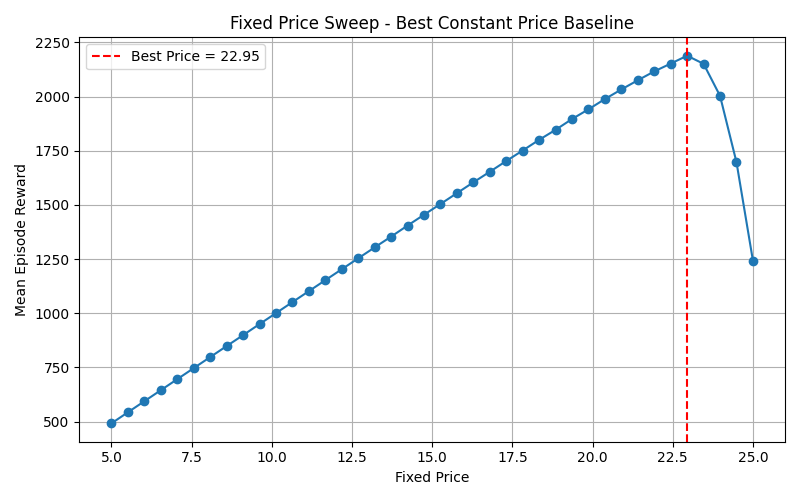
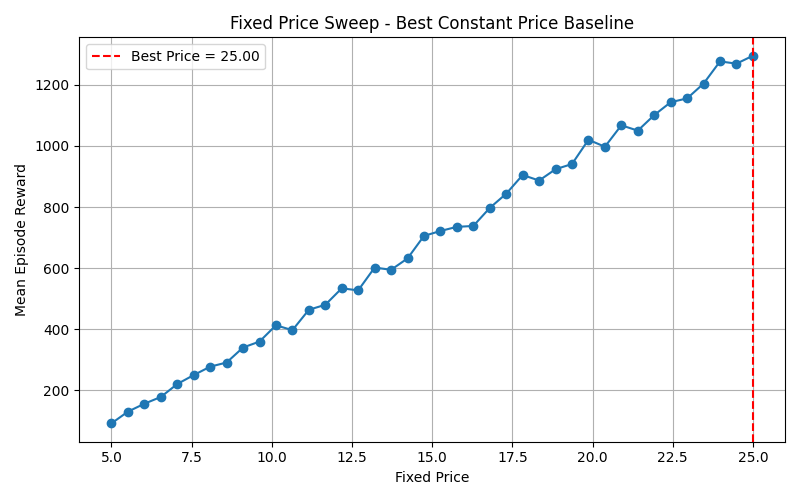
Updated environment, SARSA, Q-learning, baseline sweep, and new analysis plots

diff --git a/envs/pricing_env.py b/envs/pricing_env.py
@@ -83,15 +83,19 @@ class DynamicPricingEnv(gym.Env):
         self.last_realized_demand = 0.0
 
     def _sample_demand(self, price: float) -> float:
-        """
-        Linear demand with Gaussian noise:
-        demand = base_demand - price_sensitivity * price + Normal(0, demand_noise_std)
-        Clipped to [0, demand_cap].
-        """
+        """Nonlinear And seasonal demand function with noise."""
+        
+        #exponential decay demand function
+        mean_price_effect = self.base_demand * np.exp(-self.price_sensitivity * price)
+
+        # demand cycles over days (weekly seasonality)
+        seasonal_effect = 1.0 + 0.30 * np.sin(2 * np.pi * self.day / self.horizon_days)
+
         noise = self.rng.normal(0.0, self.demand_noise_std)
-        demand = self.base_demand - self.price_sensitivity * price + noise
+        demand = mean_price_effect * seasonal_effect + noise
         demand = float(np.clip(demand, 0.0, self.demand_cap))
         return demand
+
 
     def reset(self, seed: Optional[int] = None, options: Optional[dict] = None) -> Tuple[np.ndarray, Dict]:
         """Returns initial observation and info dict."""
